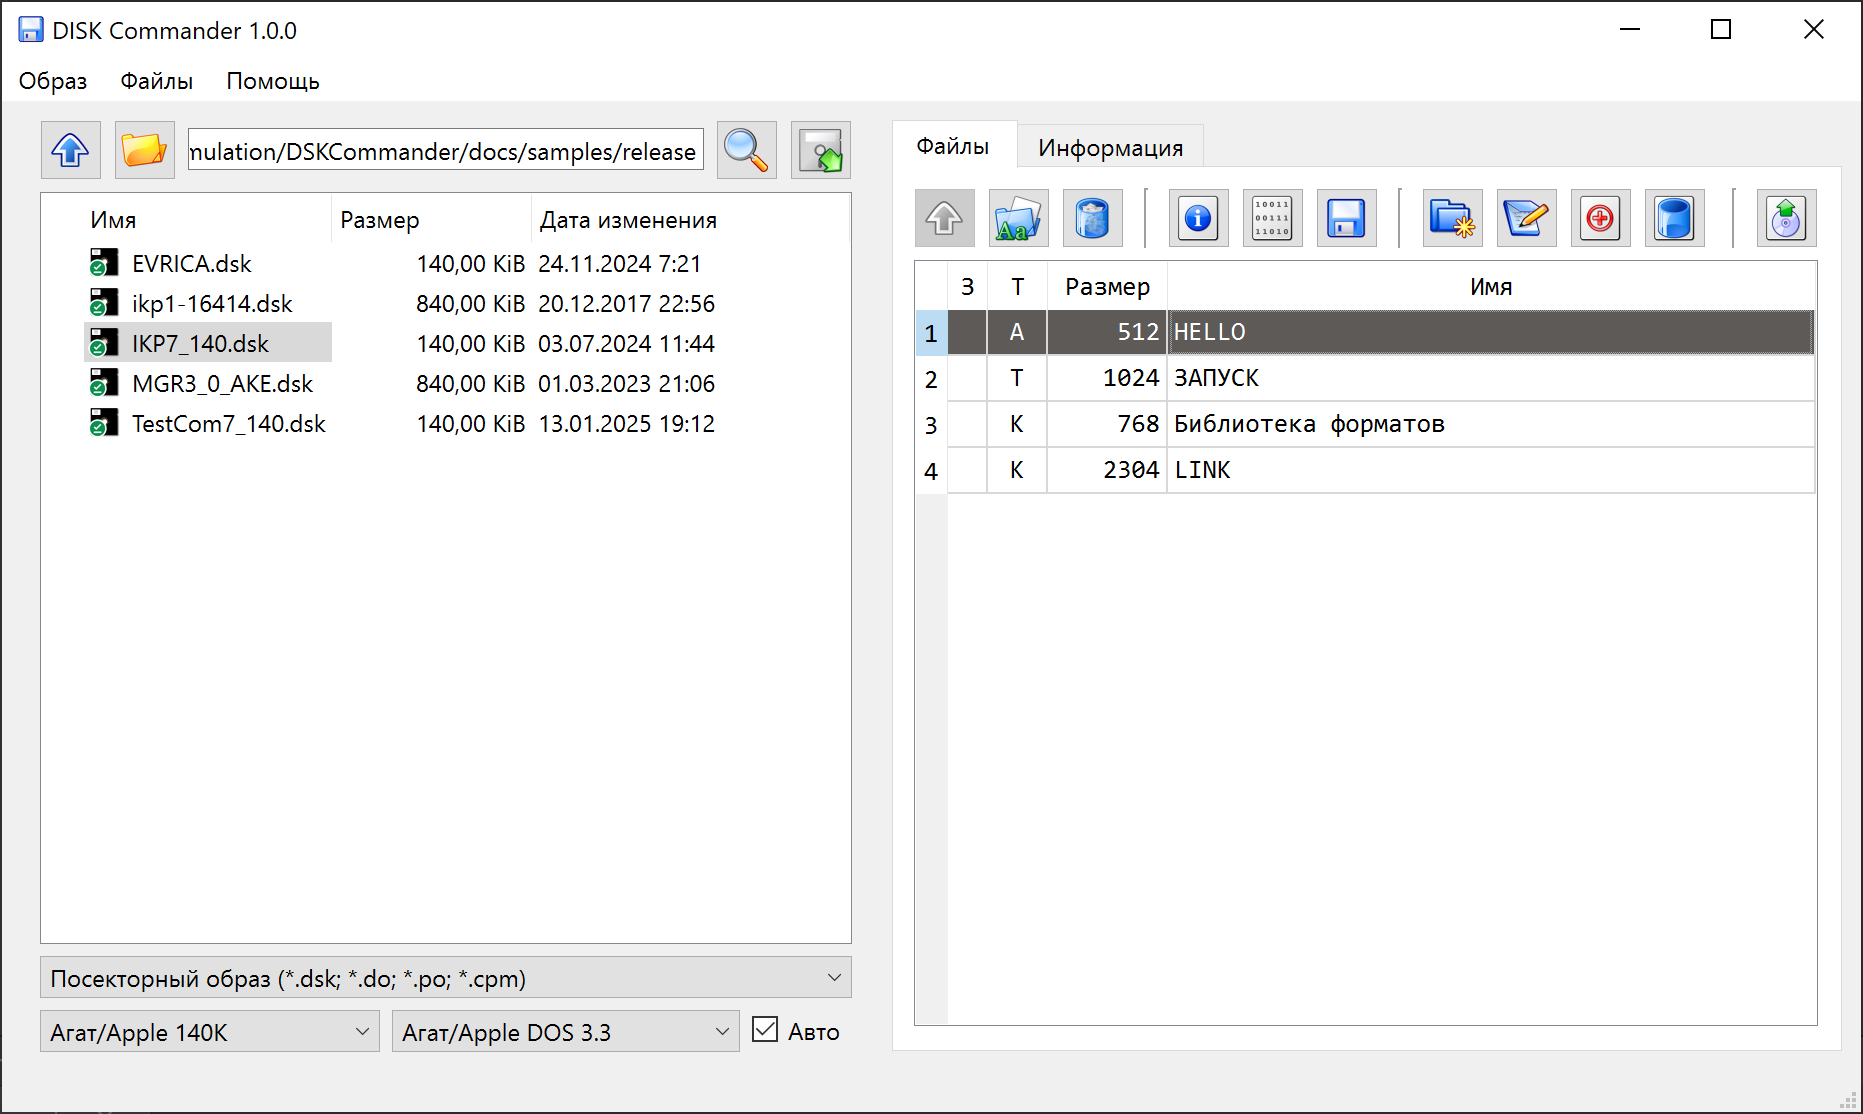
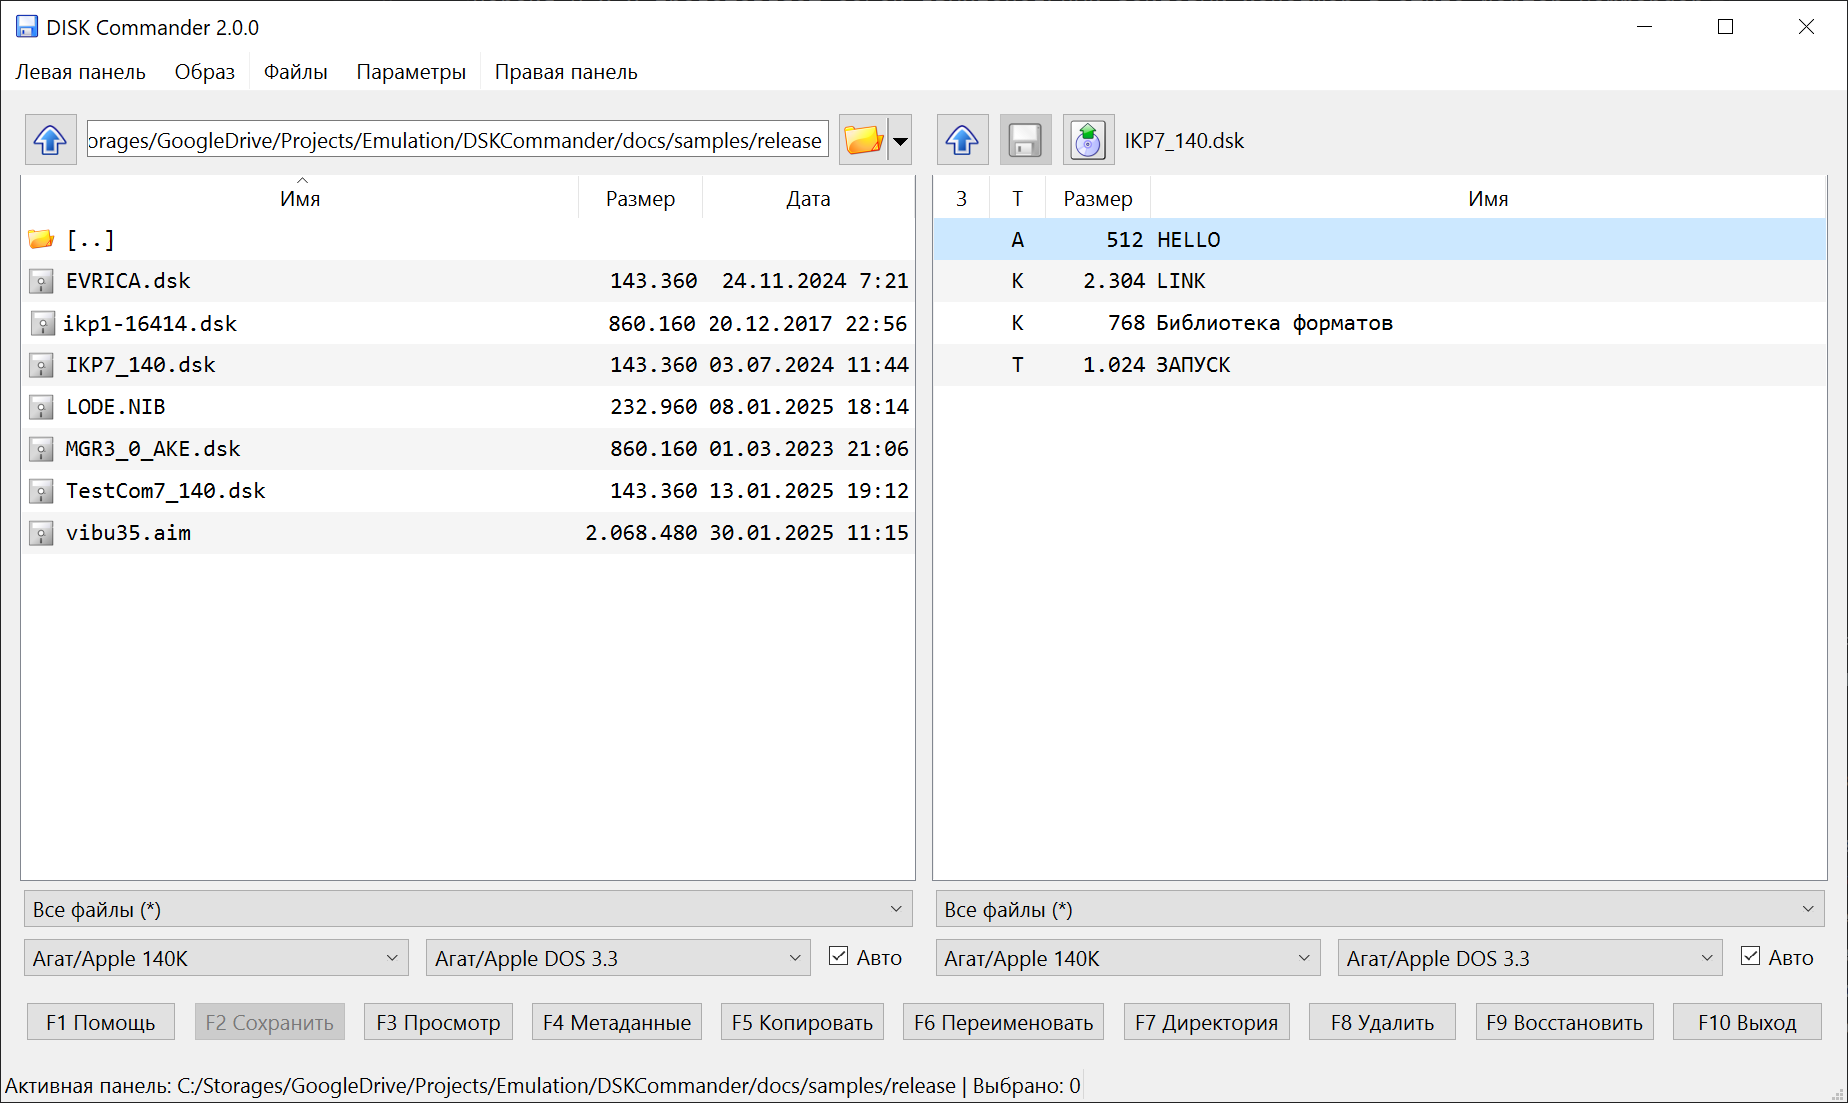
new doc

diff --git a/MANUAL.md b/MANUAL.md
@@ -19,11 +19,11 @@
 
 ## Основные операции
 
-### Панели (Левая и Правая &ndash; равноценные):
+### Панели (Левая и Правая &ndash; равноценные)
 
-Обе панели имеют одинаковый функционал. Для удобства каждая панель может иметь собственный набор кнопок.
+Обе панели имеют одинаковый функционал.
 
-### Клавиатурные сокращения для выделения файлов:
+### Клавиатурные сокращения
 
 Программа использует классическую раскладку клавиш файловых менеджеров:
 
@@ -33,23 +33,83 @@
 * **Enter** &ndash; открыть файл или директорию;
 * **+** (Plus) &ndash; выделить все файлы;
 * **-** (Minus) &ndash; снять выделение со всех файлов;
-* **\*** (Asterisk) &ndash; инвертировать выделение;
+* __*__ (Asterisk) &ndash; инвертировать выделение;
 * **Tab** &ndash; переключиться на другую панель;
 * **F1** &ndash; вызов окна &laquo;О программе&raquo;;
-* **F2** &ndash; сохранить изменённый образ;
+* **F2** &ndash; сохранить изменённый образ (для DSK);
+* **Ctrl-F2** &ndash; экспортировать образ в другой формат;
 * **F3** &ndash; просмотр файла;
+* **Ctrl-F3** &ndash; просмотр информации о файле внутри образа;
 * **F4** &ndash; открыть образ/редактировать метаданные;
 * **F5** &ndash; копирование файлов;
 * **F6** &ndash; переименование файла;
 * **F7** &ndash; создание директории;
-* **F8** &ndash; удаление файлов;
+* **F8** &ndash; удаление файлов и директорий;
+* **F9** &ndash; восстановление удалённых файлов и директорий;
 * **F10** &ndash; выход из программы.
+
+## Работа с двумя панелями
 
 ### Навигация в панелях
 * <img src="src/resources/icons/up.png" width="30"> &ndash; перейти вверх на один уровень;
 * <img src="src/resources/icons/folder_yellow_open.png" width="30"> &ndash; выбрать директорию;
 
-### Просмотр файла:
+### Выбор файлов
+* **Insert** &ndash; выделить/снять выделение текущего файла и перейти к следующему;
+* **+** (Plus) &ndash; выделить все файлы;
+* **-** (Minus) &ndash; снять выделение со всех файлов;
+* __*__ (Asterisk) &ndash; инвертировать выделение;
+
+### Операции с файлами
+ 
+* **Сохранение изменений** (F2) &ndash; сохранение изменённого образа (пока только для DSK). Если включено резервное копирование, то старый файл будет сохранён и переименован.
+
+* **Экспорт образа в другой формат** (Ctrl-F2) &ndash; [конвертация открытого образа](#экспорт_диска) в другой формат. 
+
+* **Просмотр** (F3) &ndash; для образов в хост-системе &ndash; вывод информации об образе, для файлов в образах &ndash; [просмотр файлов](#просмотр_файла) в различных форматах.
+
+* **Информация о файле** (Ctrl-F3) &ndash; вывод информации файловой системы о файле внутри образа.
+
+* **Редактирование метаданных** (F4) &ndash; [редактирование служебной информации](#редактирование_метаданных) о файле (возможности зависят от файловой системы).
+
+* **Переименование файла или директории** (F7) &ndash; переименование файлов и директорий.
+
+* **Восстановление файла или директории** (F9) &ndash; восстановление удалённых файлов или директорий, если это возможно. В данный момент доступно для дисков DOS33. **Полноценное восстановление возможно только в том случае, если сектора, ранее занятые файлом, не перезаписаны позднее другими файлами!**
+
+### Групповые операции
+
+* **Копирование файлов** (F5) &ndash; скопировать выделённые файлы из активной панели в другую панель. 
+
+* **Перемещение файлов** (F6) &ndash; переместить или переименовать файлы. При перемещении между разными панелями файлы копируются, а затем удаляются из исходной панели.
+
+* **Рекурсивное копирование директорий** &ndash; при копировании директории программа рекурсивно копирует всё её содержимое, сохраняя структуру папок.
+
+* **Удаление** (F8) &ndash; переместить или переименовать файлы. При перемещении между разными панелями файлы копируются, а затем удаляются из исходной панели.
+ 
+* **Рекурсивное удаление директорий** &ndash; удаление директории удаляет все файлы и подпапки внутри неё.
+
+### Форматы файлов при копировании между дисками
+
+При копировании файлов между двумя образами дисков с разными файловыми системами, может появиться диалог выбора формата.
+
+В частности, если файлы копируются из образа DOS33 в хост-систему, будут доступны два формата &ndash; двоичный, когда файл будет сохранён &laquo;как есть&raquo;, и [FIL](https://agatcomp.ru/agat/PCutils/FileType/FIL.shtml) - помимо данных, сохарняется служебная информация.
+
+## Безопасность и резервное копирование
+
+### Проверка несохранённых изменений
+
+Если вы работали с образом диска (добавили, удалили или изменили файлы), но не сохранили результаты, программа предупредит вас перед закрытием:
+
+* Выберите **Экспорт** для сохранения диска;
+* Выберите **Закрыть без сохранения**, если хотите отменить все изменения.
+
+### Корзина для файлов на хост-системе
+
+При удалении файлов с компьютера (просмотре хост-системы) файлы перемещаются в корзину (Recycle Bin на Windows, Trash на macOS/Linux) вместо окончательного удаления. Это позволяет восстановить файлы при случайном удалении.
+
+**Примечание:** Файлы, удалённые с образа диска, удаляются окончательно (в соответствии с файловой системой диска).
+
+### Просмотр файла
 
 <p align="center">
 <img src="screenshots/view_file.png" width="400">
@@ -57,7 +117,7 @@
 
 В окне просмотра файла выбирается формат (Текст/двоичный/Бейсик и т.д.). Для текстовых форматов также выбирается кодировка, для графических &ndash; дополнительные параметры.
 
-#### Просмотр графических образов экранов Агат:
+#### Просмотр графических образов экранов Агат
 
 <p align="center">
 <img src="screenshots/view_agat_graphics.png" width="400">
@@ -65,7 +125,7 @@
 
 Для выбора доступны: соотношение сторон, масштаб и палитра. Если в файле присутствует заполненный [VR-блок](https://agatcomp.ru/agat/PCutils/EXIF.shtml), тип изображения и палитра будут выбраны автоматически. 
 
-#### Просмотр текстовых образов экранов Агат:
+#### Просмотр текстовых образов экранов Агат
 
 <p align="center">
 <img src="screenshots/view_agat_text.png" width="400">
@@ -87,7 +147,7 @@
 * Указание метки тома. Доступно для физических форматов. Обратите внимание, что метка тома, указанная в файловой системе (можно посмотреть в окне информации), в общем случае должна совпадать со значением, записанным в заголовках секторов.
 
 
-### Переименование файла и редактирование метаданных.
+### Редактирование метаданных.
 
 <p align="center">
 <img src="screenshots/edit_metadata.png" width="400">
@@ -97,38 +157,3 @@
 
 С помощью переключателя вверху окна можно изменять формат вводимых числовых данных &ndash; десятичный/шестнадцатеричный.
 
-## Работа с двумя панелями
-
-### Групповые операции
-
-Версия 2.0.0 предоставляет удобный интерфейс для работы между двумя панелями:
-
-* **Копирование файлов** (F5) &ndash; скопировать выделённые файлы из активной панели в другую панель. Если обе панели содержат образы дисков, программа предложит выбрать формат целевой файловой системы.
-
-* **Перемещение файлов** (F6) &ndash; переместить или переименовать файлы. При перемещении между разными панелями файлы копируются, а затем удаляются из исходной панели.
-
-* **Рекурсивное копирование директорий** &ndash; при копировании директории программа рекурсивно копирует всё её содержимое, сохраняя структуру папок.
-
-* **Рекурсивное удаление директорий** &ndash; удаление директории удаляет все файлы и подпапки внутри неё.
-
-### Форматы файлов при копировании между дисками
-
-Когда вы копируете файлы между двумя образами дисков с разными файловыми системами, может появиться диалог выбора формата. Он позволяет:
-
-* Выбрать, в каком формате будут сохранены файлы в целевой файловой системе;
-* Преобразовать форматы файлов, если необходимо (например, из Apple DOS в Agat DOS).
-
-## Безопасность и резервное копирование
-
-### Проверка несохранённых изменений
-
-Если вы работали с образом диска (добавили, удалили или изменили файлы), но не сохранили результаты, программа предупредит вас перед закрытием:
-
-* Выберите **Экспорт** для сохранения диска;
-* Выберите **Закрыть без сохранения**, если хотите отменить все изменения.
-
-### Корзина для файлов на хост-системе
-
-При удалении файлов с компьютера (из левой/правой панели при просмотре хост-системы) файлы перемещаются в корзину (Recycle Bin на Windows, Trash на macOS/Linux) вместо окончательного удаления. Это позволяет восстановить файлы при случайном удалении.
-
-**Примечание:** Файлы, удалённые с образа диска, удаляются окончательно (в соответствии с файловой системой диска).
